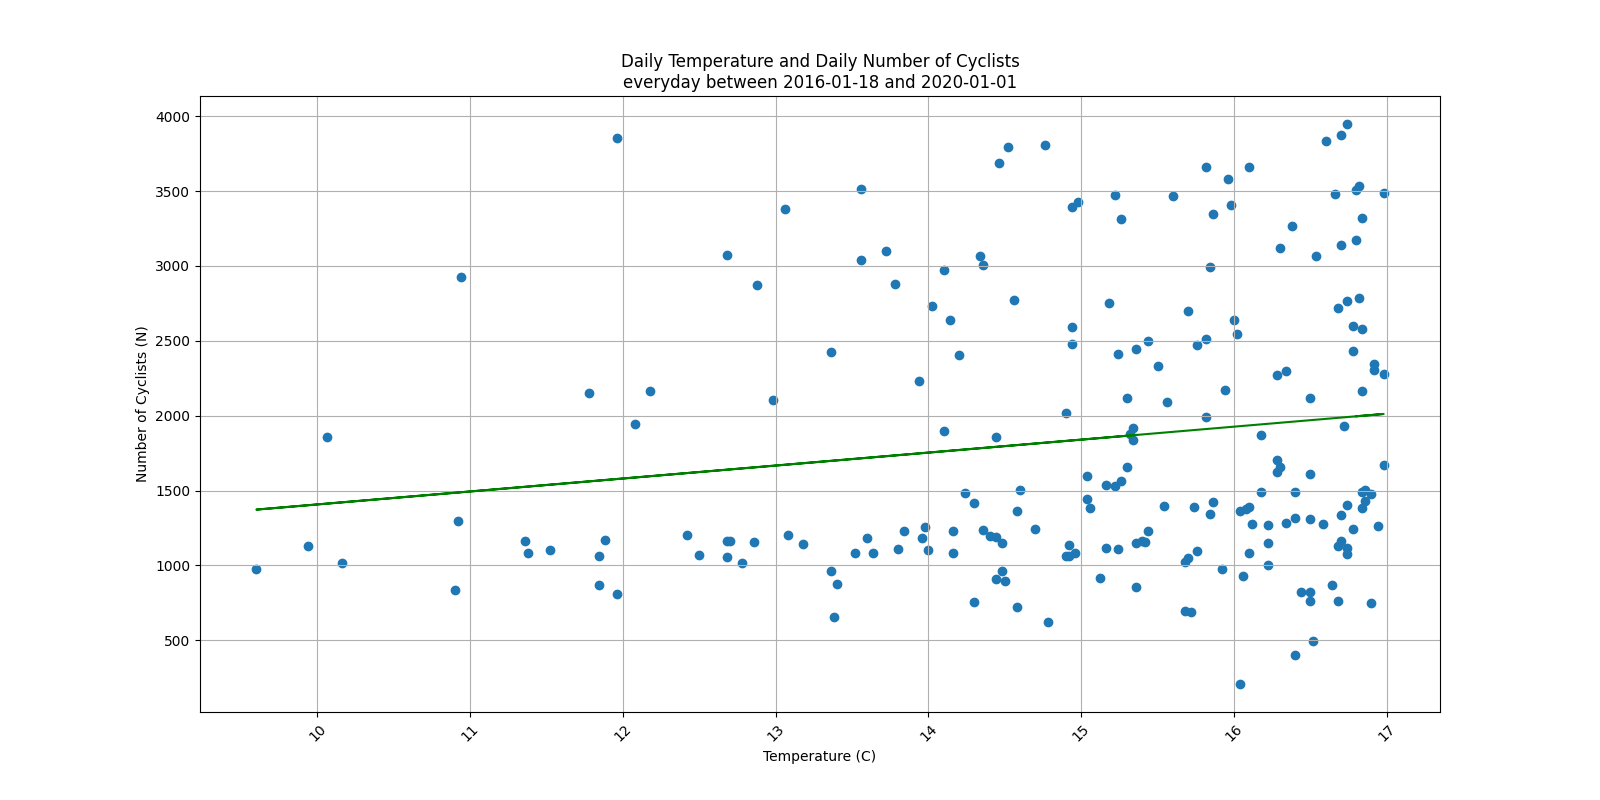
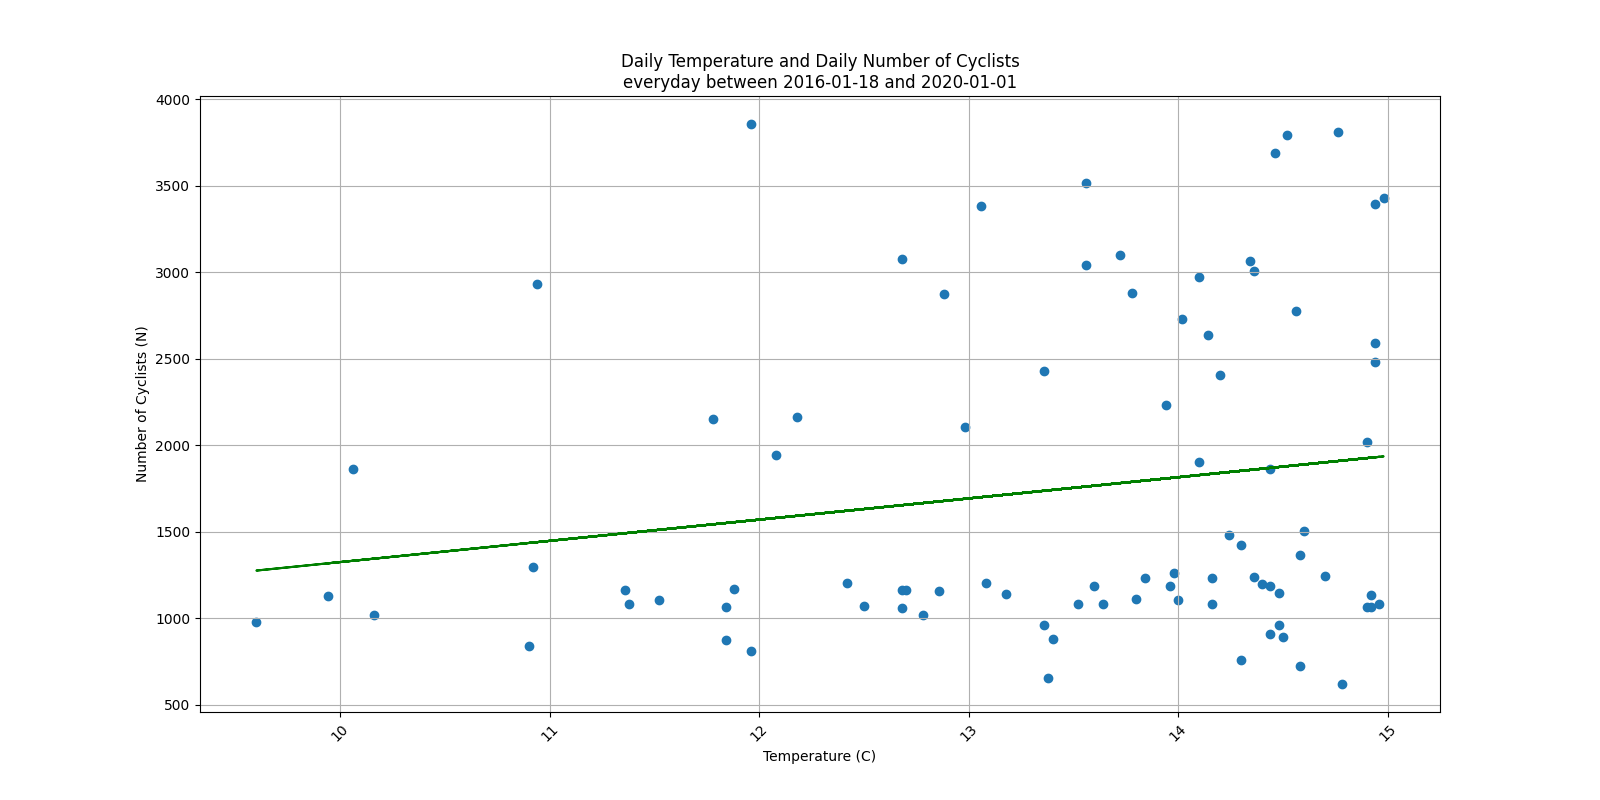
ae

diff --git a/courses/experimental-design-in-computer-science/report-1/code.py b/courses/experimental-design-in-computer-science/report-1/code.py
@@ -78,9 +78,9 @@ data = df[startDate:endDate]
 
 print ("\n\nPlease enter the cut-off temperature cT in C [values will be <= cT ]:")
 cT = float(input("cT (0 for no filtering): "))
-data = data[data.Temperature < cT]
+if(cT > 0):data = data[data.Temperature < cT]
 
-print ("\n\nEnter the number of day of the week:\n")
+print ("\n\nEnter the number of day of the week:")
 print ("   * 1 -> Mon")
 print ("   * 2 -> Tue")
 print ("   * 3 -> Wed")
@@ -88,7 +88,7 @@ print ("   * 4 -> Thu")
 print ("   * 5 -> Fri")
 print ("   * 6 -> Sat")
 print ("   * 7 -> Sun")
-print ("   * 0 -> Everyday\n")
+print ("   * 0 -> Everyday")
 
 dayWeek = int(input("Day: "))
 dayWeekStr = ["Everyday","Monday", "Tuesday", "Wednesday", "Thursday", "Friday", "Saturday", "Sunday"]
@@ -267,7 +267,7 @@ print (f"Sample size (n): {N}")
 print (f"Correlation coefficient (r): {r:.3f}")
 print (f"Confidence Interval (95%): [{rL:.3f}:{rU:.3f}]")
 print (f"Intercept: {linregress(x, y)[1]:.3f}")
-print (f"Slopee: {linregress(x, y)[0]:.3f}")
+print (f"Slope: {linregress(x, y)[0]:.3f}")
 print ("*************************************\n")
 
 '''
